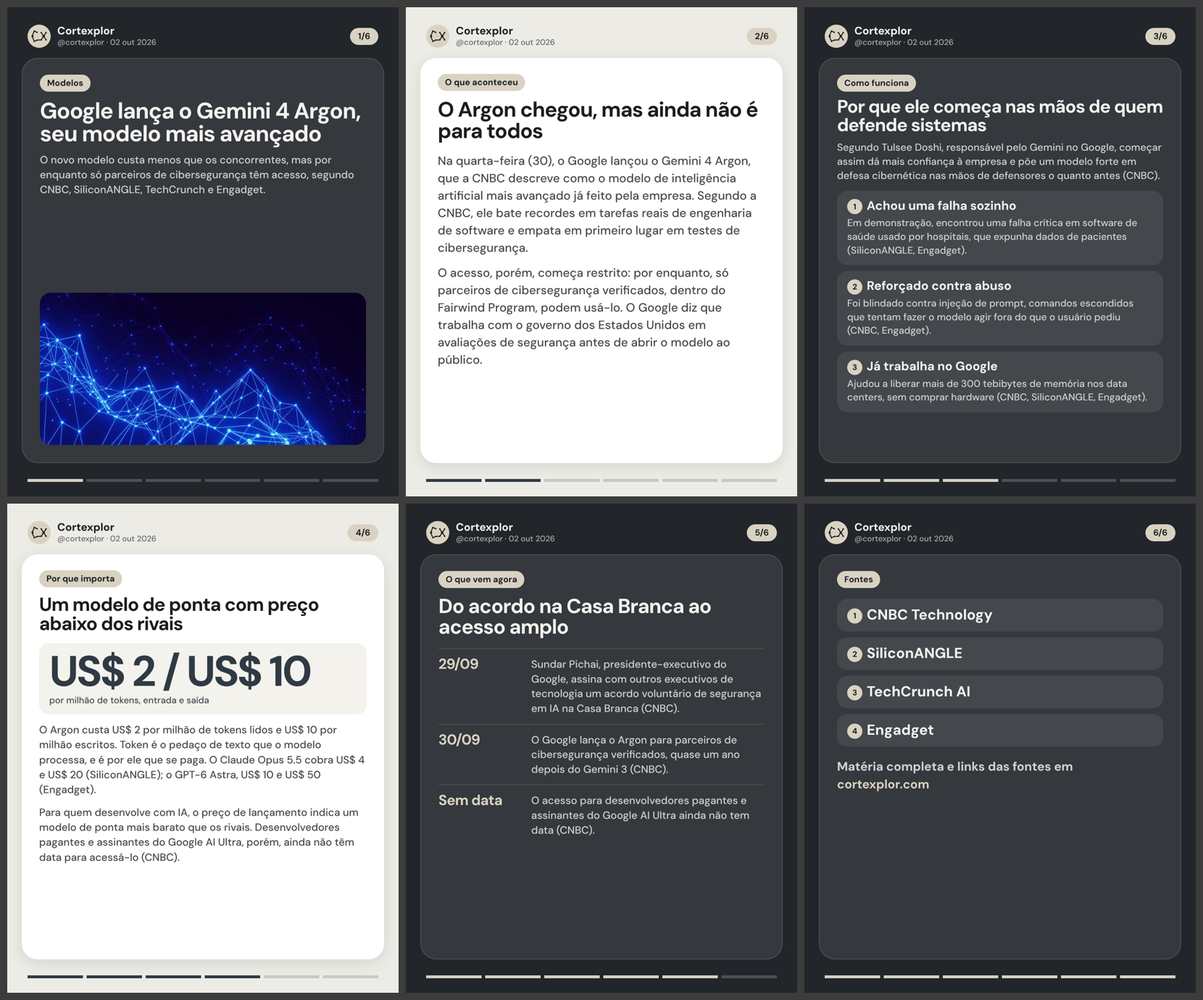
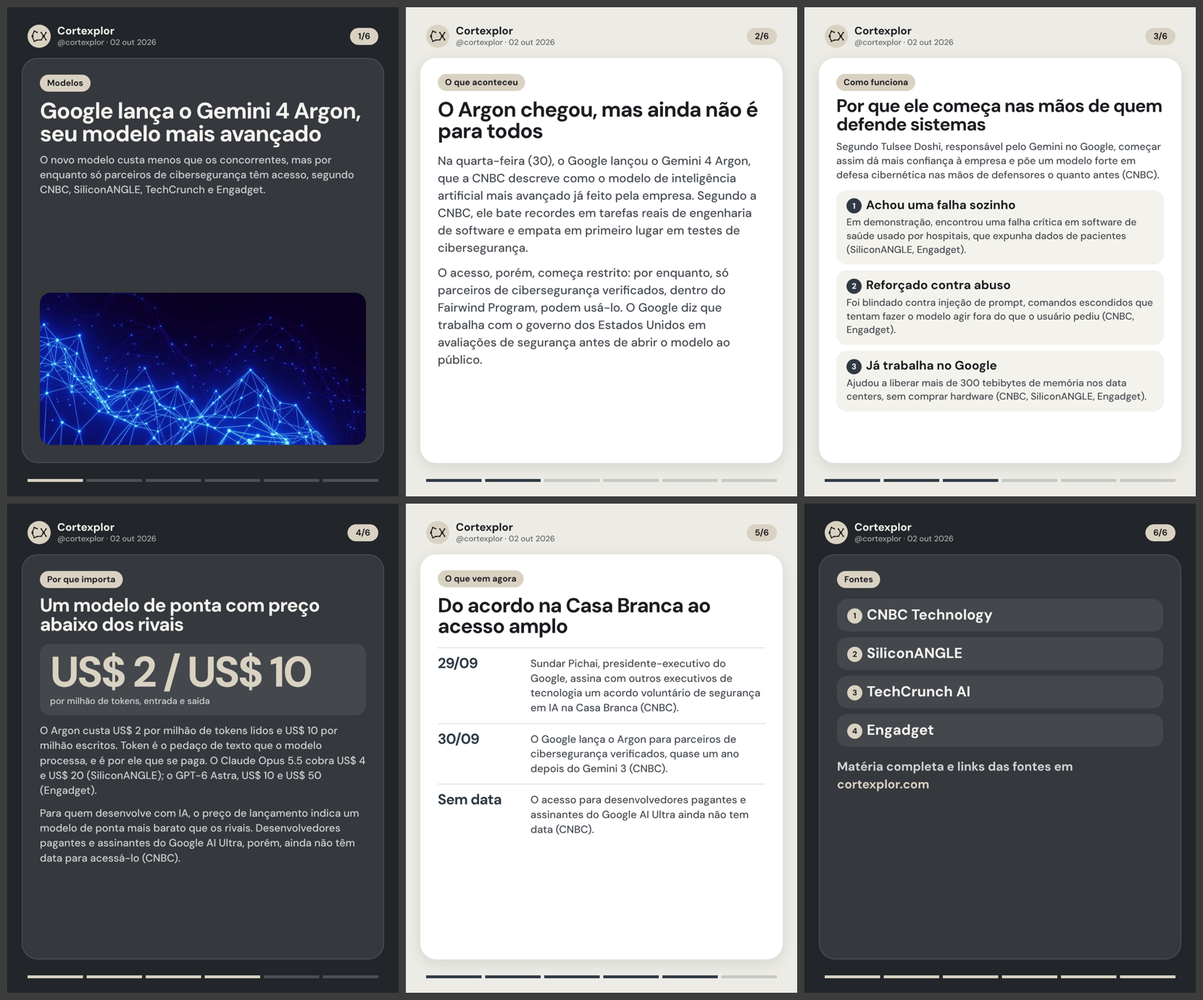
Remove estilo poster; ficam 8 estilos
Claude-Session: https://claude.ai/code/session_0158HN6BTWsPGuibWtbN19oZ

diff --git a/social/lab/_html/..-out-google-lanca-gemini-4-argon-ciberseguranca-cartao-03.html b/social/lab/_html/..-out-google-lanca-gemini-4-argon-ciberseguranca-cartao-03.html
@@ -33,8 +33,8 @@ svg.ic{display:inline-block;vertical-align:middle;flex:none}
 .T .tm{display:grid;grid-template-columns:240px 1fr;gap:16px;padding:22px 0;border-top:2px solid rgba(127,140,132,.3)}
 .T .tm b{font:700 40px/1 'DM Sans';letter-spacing:-.03em;color:var(--ac)}
 .T .tm p{font-size:29px;line-height:1.4;color:var(--soft);font-weight:500}
-</style></head><body><div class='slide T dk'><div class='hd'><div class='av'><img src='file:///home/claude/cortexplor/assets/logo/cortexplor-icon-black.svg'></div><div class='nm'>Cortexplor<span>@cortexplor · 02 out 2026</span></div><div class='pill' style=''>3/6</div></div><div class='card'>
+</style></head><body><div class='slide T lt'><div class='hd'><div class='av'><img src='file:///home/claude/cortexplor/assets/logo/cortexplor-icon-black.svg'></div><div class='nm'>Cortexplor<span>@cortexplor · 02 out 2026</span></div><div class='pill' style=''>3/6</div></div><div class='card'>
 <div class='chip'>Como funciona</div>
 <div class='h' style='font-size:50px;margin-top:16px'>Por que ele começa nas mãos de quem defende sistemas</div>
 <div class='bd' style='font-size:28px;line-height:1.4;margin-top:16px'>Segundo Tulsee Doshi, responsável pelo Gemini no Google, começar assim dá mais confiança à empresa e põe um modelo forte em defesa cibernética nas mãos de defensores o quanto antes (CNBC).</div>
-<div style='margin-top:22px'><div class='sub'><h4><span class='nb'>1</span>Achou uma falha sozinho</h4><p>Em demonstração, encontrou uma falha crítica em software de saúde usado por hospitais, que expunha dados de pacientes (SiliconANGLE, Engadget).</p></div><div class='sub'><h4><span class='nb'>2</span>Reforçado contra abuso</h4><p>Foi blindado contra injeção de prompt, comandos escondidos que tentam fazer o modelo agir fora do que o usuário pediu (CNBC, Engadget).</p></div><div class='sub'><h4><span class='nb'>3</span>Já trabalha no Google</h4><p>Ajudou a liberar mais de 300 tebibytes de memória nos data centers, sem comprar hardware (CNBC, SiliconANGLE, Engadget).</p></div></div></div><div class='abs' style='left:56px;right:56px;bottom:40px;display:flex;gap:10px'><i style='flex:1;height:8px;background:#D9D2C2'></i><i style='flex:1;height:8px;background:#D9D2C2'></i><i style='flex:1;height:8px;background:#D9D2C2'></i><i style='flex:1;height:8px;background:rgba(255,255,255,.2)'></i><i style='flex:1;height:8px;background:rgba(255,255,255,.2)'></i><i style='flex:1;height:8px;background:rgba(255,255,255,.2)'></i></div></div></body></html>
+<div style='margin-top:22px'><div class='sub'><h4><span class='nb'>1</span>Achou uma falha sozinho</h4><p>Em demonstração, encontrou uma falha crítica em software de saúde usado por hospitais, que expunha dados de pacientes (SiliconANGLE, Engadget).</p></div><div class='sub'><h4><span class='nb'>2</span>Reforçado contra abuso</h4><p>Foi blindado contra injeção de prompt, comandos escondidos que tentam fazer o modelo agir fora do que o usuário pediu (CNBC, Engadget).</p></div><div class='sub'><h4><span class='nb'>3</span>Já trabalha no Google</h4><p>Ajudou a liberar mais de 300 tebibytes de memória nos data centers, sem comprar hardware (CNBC, SiliconANGLE, Engadget).</p></div></div></div><div class='abs' style='left:56px;right:56px;bottom:40px;display:flex;gap:10px'><i style='flex:1;height:8px;background:#2F3A44'></i><i style='flex:1;height:8px;background:#2F3A44'></i><i style='flex:1;height:8px;background:#2F3A44'></i><i style='flex:1;height:8px;background:rgba(34,37,42,.18)'></i><i style='flex:1;height:8px;background:rgba(34,37,42,.18)'></i><i style='flex:1;height:8px;background:rgba(34,37,42,.18)'></i></div></div></body></html>

diff --git a/social/lab/_html/..-out-openai-lanca-dots-agentes-permanentes-chatgpt-cartao-03.html b/social/lab/_html/..-out-openai-lanca-dots-agentes-permanentes-chatgpt-cartao-03.html
@@ -33,8 +33,8 @@ svg.ic{display:inline-block;vertical-align:middle;flex:none}
 .T .tm{display:grid;grid-template-columns:240px 1fr;gap:16px;padding:22px 0;border-top:2px solid rgba(127,140,132,.3)}
 .T .tm b{font:700 40px/1 'DM Sans';letter-spacing:-.03em;color:var(--ac)}
 .T .tm p{font-size:29px;line-height:1.4;color:var(--soft);font-weight:500}
-</style></head><body><div class='slide T lt'><div class='hd'><div class='av'><img src='file:///home/claude/cortexplor/assets/logo/cortexplor-icon-black.svg'></div><div class='nm'>Cortexplor<span>@cortexplor · 02 out 2026</span></div><div class='pill' style=''>3/6</div></div><div class='card'>
+</style></head><body><div class='slide T dk'><div class='hd'><div class='av'><img src='file:///home/claude/cortexplor/assets/logo/cortexplor-icon-black.svg'></div><div class='nm'>Cortexplor<span>@cortexplor · 02 out 2026</span></div><div class='pill' style=''>3/6</div></div><div class='card'>
 <div class='chip'>Como funciona</div>
 <div class='h' style='font-size:50px;margin-top:16px'>Um agente que age sozinho, mas pede licença</div>
 <div class='bd' style='font-size:28px;line-height:1.4;margin-top:16px'>Fora de uma tarefa específica, o agente pode procurar formas de ajudar por conta própria, mas só com acesso de leitura aos apps conectados, sem enviar mensagens nem alterar dados (Wired).</div>
-<div style='margin-top:22px'><div class='sub'><h4><span class='nb'>1</span>Aviso da agenda</h4><p>Em demonstração da OpenAI, o Dot viu na agenda que o usuário trabalharia até o jantar e sugeriu duas opções de comida com preço (Wired).</p></div><div class='sub'><h4><span class='nb'>2</span>Fatura esquecida</h4><p>O agente notou que o usuário esqueceu de cobrar um cliente, preparou a fatura e esperou a aprovação para enviar (SiliconANGLE).</p></div><div class='sub'><h4><span class='nb'>3</span>Ações sensíveis</h4><p>Instalar programa ou trocar senha exige aprovação explícita, e um sistema de monitoramento pode pausar o agente (SiliconANGLE, Wired).</p></div></div></div><div class='abs' style='left:56px;right:56px;bottom:40px;display:flex;gap:10px'><i style='flex:1;height:8px;background:#2F3A44'></i><i style='flex:1;height:8px;background:#2F3A44'></i><i style='flex:1;height:8px;background:#2F3A44'></i><i style='flex:1;height:8px;background:rgba(34,37,42,.18)'></i><i style='flex:1;height:8px;background:rgba(34,37,42,.18)'></i><i style='flex:1;height:8px;background:rgba(34,37,42,.18)'></i></div></div></body></html>
+<div style='margin-top:22px'><div class='sub'><h4><span class='nb'>1</span>Aviso da agenda</h4><p>Em demonstração da OpenAI, o Dot viu na agenda que o usuário trabalharia até o jantar e sugeriu duas opções de comida com preço (Wired).</p></div><div class='sub'><h4><span class='nb'>2</span>Fatura esquecida</h4><p>O agente notou que o usuário esqueceu de cobrar um cliente, preparou a fatura e esperou a aprovação para enviar (SiliconANGLE).</p></div><div class='sub'><h4><span class='nb'>3</span>Ações sensíveis</h4><p>Instalar programa ou trocar senha exige aprovação explícita, e um sistema de monitoramento pode pausar o agente (SiliconANGLE, Wired).</p></div></div></div><div class='abs' style='left:56px;right:56px;bottom:40px;display:flex;gap:10px'><i style='flex:1;height:8px;background:#D9D2C2'></i><i style='flex:1;height:8px;background:#D9D2C2'></i><i style='flex:1;height:8px;background:#D9D2C2'></i><i style='flex:1;height:8px;background:rgba(255,255,255,.2)'></i><i style='flex:1;height:8px;background:rgba(255,255,255,.2)'></i><i style='flex:1;height:8px;background:rgba(255,255,255,.2)'></i></div></div></body></html>

diff --git a/social/lab/_html/..-out-google-lanca-gemini-4-argon-ciberseguranca-meiatinta-03.html b/social/lab/_html/..-out-google-lanca-gemini-4-argon-ciberseguranca-meiatinta-03.html
@@ -28,8 +28,8 @@ svg.ic{display:inline-block;vertical-align:middle;flex:none}
 .H .tm{display:grid;grid-template-columns:260px 1fr;gap:18px;padding:26px 0;border-top:2px solid var(--rule)}
 .H .tm b{font:800 44px/1 Archivo;letter-spacing:-.03em;color:var(--or)}
 .H .tm p{font-size:30px;line-height:1.4;font-weight:500;color:var(--soft)}
-</style></head><body><div class='slide H dk'><div class='top'><img src='file:///home/claude/cortexplor/assets/logo/cortexplor-wordmark-white.svg'><div class='pill' style=''>3/6</div></div>
+</style></head><body><div class='slide H lt'><div class='top'><img src='file:///home/claude/cortexplor/assets/logo/cortexplor-wordmark-black.svg'><div class='pill' style=''>3/6</div></div>
 <div class='abs sf' style='left:56px;top:150px'>Como funciona</div>
 <div class='abs h' style='left:56px;top:210px;width:968px;font-size:58px'>Por que ele começa nas mãos de quem defende sistemas</div>
 <div class='abs bd' style='left:56px;top:390px;width:968px;font-size:29px;line-height:1.4'>Segundo Tulsee Doshi, responsável pelo Gemini no Google, começar assim dá mais confiança à empresa e põe um modelo forte em defesa cibernética nas mãos de defensores o quanto antes (CNBC).</div>
-<div class='abs' style='left:56px;top:590px;width:968px'><div class='pt'><div class='n'>1</div><div><h4>Achou uma falha sozinho</h4><p>Em demonstração, encontrou uma falha crítica em software de saúde usado por hospitais, que expunha dados de pacientes (SiliconANGLE, Engadget).</p></div></div><div class='pt'><div class='n'>2</div><div><h4>Reforçado contra abuso</h4><p>Foi blindado contra injeção de prompt, comandos escondidos que tentam fazer o modelo agir fora do que o usuário pediu (CNBC, Engadget).</p></div></div><div class='pt'><div class='n'>3</div><div><h4>Já trabalha no Google</h4><p>Ajudou a liberar mais de 300 tebibytes de memória nos data centers, sem comprar hardware (CNBC, SiliconANGLE, Engadget).</p></div></div></div><div class='abs' style='left:56px;right:56px;bottom:48px;display:flex;gap:10px'><i style='flex:1;height:8px;background:#ECE6D8'></i><i style='flex:1;height:8px;background:#ECE6D8'></i><i style='flex:1;height:8px;background:#ECE6D8'></i><i style='flex:1;height:8px;background:rgba(236,230,216,.22)'></i><i style='flex:1;height:8px;background:rgba(236,230,216,.22)'></i><i style='flex:1;height:8px;background:rgba(236,230,216,.22)'></i></div></div></body></html>
+<div class='abs' style='left:56px;top:590px;width:968px'><div class='pt'><div class='n'>1</div><div><h4>Achou uma falha sozinho</h4><p>Em demonstração, encontrou uma falha crítica em software de saúde usado por hospitais, que expunha dados de pacientes (SiliconANGLE, Engadget).</p></div></div><div class='pt'><div class='n'>2</div><div><h4>Reforçado contra abuso</h4><p>Foi blindado contra injeção de prompt, comandos escondidos que tentam fazer o modelo agir fora do que o usuário pediu (CNBC, Engadget).</p></div></div><div class='pt'><div class='n'>3</div><div><h4>Já trabalha no Google</h4><p>Ajudou a liberar mais de 300 tebibytes de memória nos data centers, sem comprar hardware (CNBC, SiliconANGLE, Engadget).</p></div></div></div><div class='abs' style='left:56px;right:56px;bottom:48px;display:flex;gap:10px'><i style='flex:1;height:8px;background:#121212'></i><i style='flex:1;height:8px;background:#121212'></i><i style='flex:1;height:8px;background:#121212'></i><i style='flex:1;height:8px;background:rgba(18,18,18,.16)'></i><i style='flex:1;height:8px;background:rgba(18,18,18,.16)'></i><i style='flex:1;height:8px;background:rgba(18,18,18,.16)'></i></div></div></body></html>

diff --git a/social/lab/_html/..-out-openai-lanca-dots-agentes-permanentes-chatgpt-meiatinta-03.html b/social/lab/_html/..-out-openai-lanca-dots-agentes-permanentes-chatgpt-meiatinta-03.html
@@ -28,8 +28,8 @@ svg.ic{display:inline-block;vertical-align:middle;flex:none}
 .H .tm{display:grid;grid-template-columns:260px 1fr;gap:18px;padding:26px 0;border-top:2px solid var(--rule)}
 .H .tm b{font:800 44px/1 Archivo;letter-spacing:-.03em;color:var(--or)}
 .H .tm p{font-size:30px;line-height:1.4;font-weight:500;color:var(--soft)}
-</style></head><body><div class='slide H lt'><div class='top'><img src='file:///home/claude/cortexplor/assets/logo/cortexplor-wordmark-black.svg'><div class='pill' style=''>3/6</div></div>
+</style></head><body><div class='slide H dk'><div class='top'><img src='file:///home/claude/cortexplor/assets/logo/cortexplor-wordmark-white.svg'><div class='pill' style=''>3/6</div></div>
 <div class='abs sf' style='left:56px;top:150px'>Como funciona</div>
 <div class='abs h' style='left:56px;top:210px;width:968px;font-size:58px'>Um agente que age sozinho, mas pede licença</div>
 <div class='abs bd' style='left:56px;top:390px;width:968px;font-size:29px;line-height:1.4'>Fora de uma tarefa específica, o agente pode procurar formas de ajudar por conta própria, mas só com acesso de leitura aos apps conectados, sem enviar mensagens nem alterar dados (Wired).</div>
-<div class='abs' style='left:56px;top:590px;width:968px'><div class='pt'><div class='n'>1</div><div><h4>Aviso da agenda</h4><p>Em demonstração da OpenAI, o Dot viu na agenda que o usuário trabalharia até o jantar e sugeriu duas opções de comida com preço (Wired).</p></div></div><div class='pt'><div class='n'>2</div><div><h4>Fatura esquecida</h4><p>O agente notou que o usuário esqueceu de cobrar um cliente, preparou a fatura e esperou a aprovação para enviar (SiliconANGLE).</p></div></div><div class='pt'><div class='n'>3</div><div><h4>Ações sensíveis</h4><p>Instalar programa ou trocar senha exige aprovação explícita, e um sistema de monitoramento pode pausar o agente (SiliconANGLE, Wired).</p></div></div></div><div class='abs' style='left:56px;right:56px;bottom:48px;display:flex;gap:10px'><i style='flex:1;height:8px;background:#121212'></i><i style='flex:1;height:8px;background:#121212'></i><i style='flex:1;height:8px;background:#121212'></i><i style='flex:1;height:8px;background:rgba(18,18,18,.16)'></i><i style='flex:1;height:8px;background:rgba(18,18,18,.16)'></i><i style='flex:1;height:8px;background:rgba(18,18,18,.16)'></i></div></div></body></html>
+<div class='abs' style='left:56px;top:590px;width:968px'><div class='pt'><div class='n'>1</div><div><h4>Aviso da agenda</h4><p>Em demonstração da OpenAI, o Dot viu na agenda que o usuário trabalharia até o jantar e sugeriu duas opções de comida com preço (Wired).</p></div></div><div class='pt'><div class='n'>2</div><div><h4>Fatura esquecida</h4><p>O agente notou que o usuário esqueceu de cobrar um cliente, preparou a fatura e esperou a aprovação para enviar (SiliconANGLE).</p></div></div><div class='pt'><div class='n'>3</div><div><h4>Ações sensíveis</h4><p>Instalar programa ou trocar senha exige aprovação explícita, e um sistema de monitoramento pode pausar o agente (SiliconANGLE, Wired).</p></div></div></div><div class='abs' style='left:56px;right:56px;bottom:48px;display:flex;gap:10px'><i style='flex:1;height:8px;background:#ECE6D8'></i><i style='flex:1;height:8px;background:#ECE6D8'></i><i style='flex:1;height:8px;background:#ECE6D8'></i><i style='flex:1;height:8px;background:rgba(236,230,216,.22)'></i><i style='flex:1;height:8px;background:rgba(236,230,216,.22)'></i><i style='flex:1;height:8px;background:rgba(236,230,216,.22)'></i></div></div></body></html>

diff --git a/social/lab/_html/..-out-openai-lanca-dots-agentes-permanentes-chatgpt-meiatinta-02.html b/social/lab/_html/..-out-openai-lanca-dots-agentes-permanentes-chatgpt-meiatinta-02.html
@@ -28,8 +28,8 @@ svg.ic{display:inline-block;vertical-align:middle;flex:none}
 .H .tm{display:grid;grid-template-columns:260px 1fr;gap:18px;padding:26px 0;border-top:2px solid var(--rule)}
 .H .tm b{font:800 44px/1 Archivo;letter-spacing:-.03em;color:var(--or)}
 .H .tm p{font-size:30px;line-height:1.4;font-weight:500;color:var(--soft)}
-</style></head><body><div class='slide H lt'><div class='top'><img src='file:///home/claude/cortexplor/assets/logo/cortexplor-wordmark-black.svg'><div class='pill' style=''>2/6</div></div>
-<div class='abs' style='left:0;top:120px;width:1080px;height:400px;background:url(file:///home/claude/cortexplor/social/lab/_ht/openai-lanca-dots-agentes-permanentes-chatgpt_ht_band_l.png) center/cover'></div>
+</style></head><body><div class='slide H dk'><div class='top'><img src='file:///home/claude/cortexplor/assets/logo/cortexplor-wordmark-white.svg'><div class='pill' style=''>2/6</div></div>
+<div class='abs' style='left:0;top:120px;width:1080px;height:400px;background:url(file:///home/claude/cortexplor/social/lab/_ht/openai-lanca-dots-agentes-permanentes-chatgpt_ht_band_k.png) center/cover'></div>
 <div class='abs sf' style='left:56px;top:560px'>O que aconteceu</div>
 <div class='abs h' style='left:56px;top:620px;width:968px;font-size:56px'>A OpenAI pôs agentes que trabalham o tempo todo dentro do ChatGPT</div>
-<div class='abs bd' style='left:56px;top:830px;width:968px;font-size:29px;line-height:1.42'><p style='margin-bottom:16px'>Na terça-feira (29), durante o DevDay, em São Francisco, a OpenAI lançou os Dots: agentes de IA “sempre ativos” no ChatGPT, capazes de tocar tarefas e projetos sem receber um comando a cada etapa, segundo SiliconANGLE, Wired e CNBC.</p><p style='margin-bottom:16px'>Movidos pelo GPT-6 Astra, os agentes funcionam no computador, na web e no celular, e também respondem pelo Slack e pelo Microsoft Teams, mantendo o mesmo contexto entre os canais.</p></div><div class='abs' style='left:56px;right:56px;bottom:48px;display:flex;gap:10px'><i style='flex:1;height:8px;background:#121212'></i><i style='flex:1;height:8px;background:#121212'></i><i style='flex:1;height:8px;background:rgba(18,18,18,.16)'></i><i style='flex:1;height:8px;background:rgba(18,18,18,.16)'></i><i style='flex:1;height:8px;background:rgba(18,18,18,.16)'></i><i style='flex:1;height:8px;background:rgba(18,18,18,.16)'></i></div></div></body></html>
+<div class='abs bd' style='left:56px;top:830px;width:968px;font-size:29px;line-height:1.42'><p style='margin-bottom:16px'>Na terça-feira (29), durante o DevDay, em São Francisco, a OpenAI lançou os Dots: agentes de IA “sempre ativos” no ChatGPT, capazes de tocar tarefas e projetos sem receber um comando a cada etapa, segundo SiliconANGLE, Wired e CNBC.</p><p style='margin-bottom:16px'>Movidos pelo GPT-6 Astra, os agentes funcionam no computador, na web e no celular, e também respondem pelo Slack e pelo Microsoft Teams, mantendo o mesmo contexto entre os canais.</p></div><div class='abs' style='left:56px;right:56px;bottom:48px;display:flex;gap:10px'><i style='flex:1;height:8px;background:#ECE6D8'></i><i style='flex:1;height:8px;background:#ECE6D8'></i><i style='flex:1;height:8px;background:rgba(236,230,216,.22)'></i><i style='flex:1;height:8px;background:rgba(236,230,216,.22)'></i><i style='flex:1;height:8px;background:rgba(236,230,216,.22)'></i><i style='flex:1;height:8px;background:rgba(236,230,216,.22)'></i></div></div></body></html>

diff --git a/social/lab/_html/..-out-google-lanca-gemini-4-argon-ciberseguranca-cartao-04.html b/social/lab/_html/..-out-google-lanca-gemini-4-argon-ciberseguranca-cartao-04.html
@@ -33,8 +33,8 @@ svg.ic{display:inline-block;vertical-align:middle;flex:none}
 .T .tm{display:grid;grid-template-columns:240px 1fr;gap:16px;padding:22px 0;border-top:2px solid rgba(127,140,132,.3)}
 .T .tm b{font:700 40px/1 'DM Sans';letter-spacing:-.03em;color:var(--ac)}
 .T .tm p{font-size:29px;line-height:1.4;color:var(--soft);font-weight:500}
-</style></head><body><div class='slide T lt'><div class='hd'><div class='av'><img src='file:///home/claude/cortexplor/assets/logo/cortexplor-icon-black.svg'></div><div class='nm'>Cortexplor<span>@cortexplor · 02 out 2026</span></div><div class='pill' style=''>4/6</div></div><div class='card'>
+</style></head><body><div class='slide T dk'><div class='hd'><div class='av'><img src='file:///home/claude/cortexplor/assets/logo/cortexplor-icon-black.svg'></div><div class='nm'>Cortexplor<span>@cortexplor · 02 out 2026</span></div><div class='pill' style=''>4/6</div></div><div class='card'>
 <div class='chip'>Por que importa</div>
 <div class='h' style='font-size:52px'>Um modelo de ponta com preço abaixo dos rivais</div>
 <div class='sub' style='margin-top:26px;margin-bottom:22px'><div class='big' style='font-size:118px'>US$ 2 / US$ 10</div><p style='font-size:25px;margin-top:6px;color:var(--soft)'>por milhão de tokens, entrada e saída</p></div>
-<div class='bd' style='font-size:29px;line-height:1.42'><p style=''>O Argon custa US$ 2 por milhão de tokens lidos e US$ 10 por milhão escritos. Token é o pedaço de texto que o modelo processa, e é por ele que se paga. O Claude Opus 5.5 cobra US$ 4 e US$ 20 (SiliconANGLE); o GPT-6 Astra, US$ 10 e US$ 50 (Engadget).</p><p style=''>Para quem desenvolve com IA, o preço de lançamento indica um modelo de ponta mais barato que os rivais. Desenvolvedores pagantes e assinantes do Google AI Ultra, porém, ainda não têm data para acessá-lo (CNBC).</p></div></div><div class='abs' style='left:56px;right:56px;bottom:40px;display:flex;gap:10px'><i style='flex:1;height:8px;background:#2F3A44'></i><i style='flex:1;height:8px;background:#2F3A44'></i><i style='flex:1;height:8px;background:#2F3A44'></i><i style='flex:1;height:8px;background:#2F3A44'></i><i style='flex:1;height:8px;background:rgba(34,37,42,.18)'></i><i style='flex:1;height:8px;background:rgba(34,37,42,.18)'></i></div></div></body></html>
+<div class='bd' style='font-size:29px;line-height:1.42'><p style=''>O Argon custa US$ 2 por milhão de tokens lidos e US$ 10 por milhão escritos. Token é o pedaço de texto que o modelo processa, e é por ele que se paga. O Claude Opus 5.5 cobra US$ 4 e US$ 20 (SiliconANGLE); o GPT-6 Astra, US$ 10 e US$ 50 (Engadget).</p><p style=''>Para quem desenvolve com IA, o preço de lançamento indica um modelo de ponta mais barato que os rivais. Desenvolvedores pagantes e assinantes do Google AI Ultra, porém, ainda não têm data para acessá-lo (CNBC).</p></div></div><div class='abs' style='left:56px;right:56px;bottom:40px;display:flex;gap:10px'><i style='flex:1;height:8px;background:#D9D2C2'></i><i style='flex:1;height:8px;background:#D9D2C2'></i><i style='flex:1;height:8px;background:#D9D2C2'></i><i style='flex:1;height:8px;background:#D9D2C2'></i><i style='flex:1;height:8px;background:rgba(255,255,255,.2)'></i><i style='flex:1;height:8px;background:rgba(255,255,255,.2)'></i></div></div></body></html>

diff --git a/social/lab/_html/..-out-openai-lanca-dots-agentes-permanentes-chatgpt-cartao-06.html b/social/lab/_html/..-out-openai-lanca-dots-agentes-permanentes-chatgpt-cartao-06.html
@@ -33,7 +33,7 @@ svg.ic{display:inline-block;vertical-align:middle;flex:none}
 .T .tm{display:grid;grid-template-columns:240px 1fr;gap:16px;padding:22px 0;border-top:2px solid rgba(127,140,132,.3)}
 .T .tm b{font:700 40px/1 'DM Sans';letter-spacing:-.03em;color:var(--ac)}
 .T .tm p{font-size:29px;line-height:1.4;color:var(--soft);font-weight:500}
-</style></head><body><div class='slide T dk'><div class='hd'><div class='av'><img src='file:///home/claude/cortexplor/assets/logo/cortexplor-icon-black.svg'></div><div class='nm'>Cortexplor<span>@cortexplor · 02 out 2026</span></div><div class='pill' style=''>6/6</div></div><div class='card'>
+</style></head><body><div class='slide T lt'><div class='hd'><div class='av'><img src='file:///home/claude/cortexplor/assets/logo/cortexplor-icon-black.svg'></div><div class='nm'>Cortexplor<span>@cortexplor · 02 out 2026</span></div><div class='pill' style=''>6/6</div></div><div class='card'>
 <div class='chip'>Fontes</div>
 <div style='margin-top:30px'><div class='sub' style='font:700 40px/1.1 "DM Sans"'><span class='nb' style='display:inline-grid;place-items:center;width:42px;height:42px;border-radius:50%;background:var(--ac);color:#fff;font:700 22px 'DM Sans';margin-right:14px;vertical-align:middle'>1</span>SiliconANGLE</div><div class='sub' style='font:700 40px/1.1 "DM Sans"'><span class='nb' style='display:inline-grid;place-items:center;width:42px;height:42px;border-radius:50%;background:var(--ac);color:#fff;font:700 22px 'DM Sans';margin-right:14px;vertical-align:middle'>2</span>TechRadar</div><div class='sub' style='font:700 40px/1.1 "DM Sans"'><span class='nb' style='display:inline-grid;place-items:center;width:42px;height:42px;border-radius:50%;background:var(--ac);color:#fff;font:700 22px 'DM Sans';margin-right:14px;vertical-align:middle'>3</span>CNBC Technology</div><div class='sub' style='font:700 40px/1.1 "DM Sans"'><span class='nb' style='display:inline-grid;place-items:center;width:42px;height:42px;border-radius:50%;background:var(--ac);color:#fff;font:700 22px 'DM Sans';margin-right:14px;vertical-align:middle'>4</span>Wired AI</div></div>
-<div class='bd' style='margin-top:30px;font-weight:700'>Matéria completa e links das fontes em <span style='color:var(--ac)'>cortexplor.com</span></div></div><div class='abs' style='left:56px;right:56px;bottom:40px;display:flex;gap:10px'><i style='flex:1;height:8px;background:#D9D2C2'></i><i style='flex:1;height:8px;background:#D9D2C2'></i><i style='flex:1;height:8px;background:#D9D2C2'></i><i style='flex:1;height:8px;background:#D9D2C2'></i><i style='flex:1;height:8px;background:#D9D2C2'></i><i style='flex:1;height:8px;background:#D9D2C2'></i></div></div></body></html>
+<div class='bd' style='margin-top:30px;font-weight:700'>Matéria completa e links das fontes em <span style='color:var(--ac)'>cortexplor.com</span></div></div><div class='abs' style='left:56px;right:56px;bottom:40px;display:flex;gap:10px'><i style='flex:1;height:8px;background:#2F3A44'></i><i style='flex:1;height:8px;background:#2F3A44'></i><i style='flex:1;height:8px;background:#2F3A44'></i><i style='flex:1;height:8px;background:#2F3A44'></i><i style='flex:1;height:8px;background:#2F3A44'></i><i style='flex:1;height:8px;background:#2F3A44'></i></div></div></body></html>

diff --git a/social/lab/_html/..-out-google-lanca-gemini-4-argon-ciberseguranca-meiatinta-04.html b/social/lab/_html/..-out-google-lanca-gemini-4-argon-ciberseguranca-meiatinta-04.html
@@ -28,9 +28,9 @@ svg.ic{display:inline-block;vertical-align:middle;flex:none}
 .H .tm{display:grid;grid-template-columns:260px 1fr;gap:18px;padding:26px 0;border-top:2px solid var(--rule)}
 .H .tm b{font:800 44px/1 Archivo;letter-spacing:-.03em;color:var(--or)}
 .H .tm p{font-size:30px;line-height:1.4;font-weight:500;color:var(--soft)}
-</style></head><body><div class='slide H lt'><div class='top'><img src='file:///home/claude/cortexplor/assets/logo/cortexplor-wordmark-black.svg'><div class='pill' style=''>4/6</div></div>
+</style></head><body><div class='slide H dk'><div class='dots'></div><div class='top'><img src='file:///home/claude/cortexplor/assets/logo/cortexplor-wordmark-white.svg'><div class='pill' style=''>4/6</div></div>
 <div class='abs sf' style='left:56px;top:150px'>Por que importa</div>
 <div class='abs h' style='left:56px;top:210px;width:968px;font-size:62px'>Um modelo de ponta com preço abaixo dos rivais</div>
 <div class='abs' style='left:56px;top:450px;width:968px'><div class='big' style='font-size:112px'>US$ 2 / US$ 10</div>
 <div class='sf' style='font-size:36px;margin-top:8px'>por milhão de tokens, entrada e saída</div></div>
-<div class='abs bd' style='left:56px;top:700px;width:968px;font-size:30px'><p style=''>O Argon custa US$ 2 por milhão de tokens lidos e US$ 10 por milhão escritos. Token é o pedaço de texto que o modelo processa, e é por ele que se paga. O Claude Opus 5.5 cobra US$ 4 e US$ 20 (SiliconANGLE); o GPT-6 Astra, US$ 10 e US$ 50 (Engadget).</p><p style=''>Para quem desenvolve com IA, o preço de lançamento indica um modelo de ponta mais barato que os rivais. Desenvolvedores pagantes e assinantes do Google AI Ultra, porém, ainda não têm data para acessá-lo (CNBC).</p></div><div class='abs' style='left:56px;right:56px;bottom:48px;display:flex;gap:10px'><i style='flex:1;height:8px;background:#121212'></i><i style='flex:1;height:8px;background:#121212'></i><i style='flex:1;height:8px;background:#121212'></i><i style='flex:1;height:8px;background:#121212'></i><i style='flex:1;height:8px;background:rgba(18,18,18,.16)'></i><i style='flex:1;height:8px;background:rgba(18,18,18,.16)'></i></div></div></body></html>
+<div class='abs bd' style='left:56px;top:700px;width:968px;font-size:30px'><p style=''>O Argon custa US$ 2 por milhão de tokens lidos e US$ 10 por milhão escritos. Token é o pedaço de texto que o modelo processa, e é por ele que se paga. O Claude Opus 5.5 cobra US$ 4 e US$ 20 (SiliconANGLE); o GPT-6 Astra, US$ 10 e US$ 50 (Engadget).</p><p style=''>Para quem desenvolve com IA, o preço de lançamento indica um modelo de ponta mais barato que os rivais. Desenvolvedores pagantes e assinantes do Google AI Ultra, porém, ainda não têm data para acessá-lo (CNBC).</p></div><div class='abs' style='left:56px;right:56px;bottom:48px;display:flex;gap:10px'><i style='flex:1;height:8px;background:#ECE6D8'></i><i style='flex:1;height:8px;background:#ECE6D8'></i><i style='flex:1;height:8px;background:#ECE6D8'></i><i style='flex:1;height:8px;background:#ECE6D8'></i><i style='flex:1;height:8px;background:rgba(236,230,216,.22)'></i><i style='flex:1;height:8px;background:rgba(236,230,216,.22)'></i></div></div></body></html>

diff --git a/social/lab/_html/..-out-openai-lanca-dots-agentes-permanentes-chatgpt-meiatinta-04.html b/social/lab/_html/..-out-openai-lanca-dots-agentes-permanentes-chatgpt-meiatinta-04.html
@@ -28,9 +28,9 @@ svg.ic{display:inline-block;vertical-align:middle;flex:none}
 .H .tm{display:grid;grid-template-columns:260px 1fr;gap:18px;padding:26px 0;border-top:2px solid var(--rule)}
 .H .tm b{font:800 44px/1 Archivo;letter-spacing:-.03em;color:var(--or)}
 .H .tm p{font-size:30px;line-height:1.4;font-weight:500;color:var(--soft)}
-</style></head><body><div class='slide H dk'><div class='dots'></div><div class='top'><img src='file:///home/claude/cortexplor/assets/logo/cortexplor-wordmark-white.svg'><div class='pill' style=''>4/6</div></div>
+</style></head><body><div class='slide H lt'><div class='top'><img src='file:///home/claude/cortexplor/assets/logo/cortexplor-wordmark-black.svg'><div class='pill' style=''>4/6</div></div>
 <div class='abs sf' style='left:56px;top:150px'>Por que importa</div>
 <div class='abs h' style='left:56px;top:210px;width:968px;font-size:62px'>Quem paga a partir de US$ 100 já ganha um agente</div>
 <div class='abs' style='left:56px;top:450px;width:968px'><div class='big' style='font-size:112px'>US$ 100/mês</div>
 <div class='sf' style='font-size:36px;margin-top:8px'>plano ChatGPT Pro, onde os Dots começaram</div></div>
-<div class='abs bd' style='left:56px;top:700px;width:968px;font-size:30px'><p style=''>O acesso começou pelo plano ChatGPT Pro, de US$ 100 por mês, e pelo Business Premium. Cada assinatura inclui um agente sem custo extra, e o uso dos Dots não deve contar no limite mensal do plano no primeiro mês (SiliconANGLE).</p><p style=''>Assinantes Pro na União Europeia, na Suíça e no Reino Unido ficaram de fora por enquanto. A OpenAI ainda não divulgou o preço de agentes extras (SiliconANGLE).</p></div><div class='abs' style='left:56px;right:56px;bottom:48px;display:flex;gap:10px'><i style='flex:1;height:8px;background:#ECE6D8'></i><i style='flex:1;height:8px;background:#ECE6D8'></i><i style='flex:1;height:8px;background:#ECE6D8'></i><i style='flex:1;height:8px;background:#ECE6D8'></i><i style='flex:1;height:8px;background:rgba(236,230,216,.22)'></i><i style='flex:1;height:8px;background:rgba(236,230,216,.22)'></i></div></div></body></html>
+<div class='abs bd' style='left:56px;top:700px;width:968px;font-size:30px'><p style=''>O acesso começou pelo plano ChatGPT Pro, de US$ 100 por mês, e pelo Business Premium. Cada assinatura inclui um agente sem custo extra, e o uso dos Dots não deve contar no limite mensal do plano no primeiro mês (SiliconANGLE).</p><p style=''>Assinantes Pro na União Europeia, na Suíça e no Reino Unido ficaram de fora por enquanto. A OpenAI ainda não divulgou o preço de agentes extras (SiliconANGLE).</p></div><div class='abs' style='left:56px;right:56px;bottom:48px;display:flex;gap:10px'><i style='flex:1;height:8px;background:#121212'></i><i style='flex:1;height:8px;background:#121212'></i><i style='flex:1;height:8px;background:#121212'></i><i style='flex:1;height:8px;background:#121212'></i><i style='flex:1;height:8px;background:rgba(18,18,18,.16)'></i><i style='flex:1;height:8px;background:rgba(18,18,18,.16)'></i></div></div></body></html>

diff --git a/social/lab/_html/..-out-google-lanca-gemini-4-argon-ciberseguranca-cartao-05.html b/social/lab/_html/..-out-google-lanca-gemini-4-argon-ciberseguranca-cartao-05.html
@@ -33,7 +33,7 @@ svg.ic{display:inline-block;vertical-align:middle;flex:none}
 .T .tm{display:grid;grid-template-columns:240px 1fr;gap:16px;padding:22px 0;border-top:2px solid rgba(127,140,132,.3)}
 .T .tm b{font:700 40px/1 'DM Sans';letter-spacing:-.03em;color:var(--ac)}
 .T .tm p{font-size:29px;line-height:1.4;color:var(--soft);font-weight:500}
-</style></head><body><div class='slide T dk'><div class='hd'><div class='av'><img src='file:///home/claude/cortexplor/assets/logo/cortexplor-icon-black.svg'></div><div class='nm'>Cortexplor<span>@cortexplor · 02 out 2026</span></div><div class='pill' style=''>5/6</div></div><div class='card'>
+</style></head><body><div class='slide T lt'><div class='hd'><div class='av'><img src='file:///home/claude/cortexplor/assets/logo/cortexplor-icon-black.svg'></div><div class='nm'>Cortexplor<span>@cortexplor · 02 out 2026</span></div><div class='pill' style=''>5/6</div></div><div class='card'>
 <div class='chip'>O que vem agora</div>
 <div class='h' style='font-size:56px'>Do acordo na Casa Branca ao acesso amplo</div>
-<div style='margin-top:30px'><div class='tm'><b>29/09</b><p>Sundar Pichai, presidente-executivo do Google, assina com outros executivos de tecnologia um acordo voluntário de segurança em IA na Casa Branca (CNBC).</p></div><div class='tm'><b>30/09</b><p>O Google lança o Argon para parceiros de cibersegurança verificados, quase um ano depois do Gemini 3 (CNBC).</p></div><div class='tm'><b>Sem data</b><p>O acesso para desenvolvedores pagantes e assinantes do Google AI Ultra ainda não tem data (CNBC).</p></div></div></div><div class='abs' style='left:56px;right:56px;bottom:40px;display:flex;gap:10px'><i style='flex:1;height:8px;background:#D9D2C2'></i><i style='flex:1;height:8px;background:#D9D2C2'></i><i style='flex:1;height:8px;background:#D9D2C2'></i><i style='flex:1;height:8px;background:#D9D2C2'></i><i style='flex:1;height:8px;background:#D9D2C2'></i><i style='flex:1;height:8px;background:rgba(255,255,255,.2)'></i></div></div></body></html>
+<div style='margin-top:30px'><div class='tm'><b>29/09</b><p>Sundar Pichai, presidente-executivo do Google, assina com outros executivos de tecnologia um acordo voluntário de segurança em IA na Casa Branca (CNBC).</p></div><div class='tm'><b>30/09</b><p>O Google lança o Argon para parceiros de cibersegurança verificados, quase um ano depois do Gemini 3 (CNBC).</p></div><div class='tm'><b>Sem data</b><p>O acesso para desenvolvedores pagantes e assinantes do Google AI Ultra ainda não tem data (CNBC).</p></div></div></div><div class='abs' style='left:56px;right:56px;bottom:40px;display:flex;gap:10px'><i style='flex:1;height:8px;background:#2F3A44'></i><i style='flex:1;height:8px;background:#2F3A44'></i><i style='flex:1;height:8px;background:#2F3A44'></i><i style='flex:1;height:8px;background:#2F3A44'></i><i style='flex:1;height:8px;background:#2F3A44'></i><i style='flex:1;height:8px;background:rgba(34,37,42,.18)'></i></div></div></body></html>

diff --git a/social/lab/_html/..-out-google-lanca-gemini-4-argon-ciberseguranca-meiatinta-05.html b/social/lab/_html/..-out-google-lanca-gemini-4-argon-ciberseguranca-meiatinta-05.html
@@ -28,7 +28,7 @@ svg.ic{display:inline-block;vertical-align:middle;flex:none}
 .H .tm{display:grid;grid-template-columns:260px 1fr;gap:18px;padding:26px 0;border-top:2px solid var(--rule)}
 .H .tm b{font:800 44px/1 Archivo;letter-spacing:-.03em;color:var(--or)}
 .H .tm p{font-size:30px;line-height:1.4;font-weight:500;color:var(--soft)}
-</style></head><body><div class='slide H dk'><div class='top'><img src='file:///home/claude/cortexplor/assets/logo/cortexplor-wordmark-white.svg'><div class='pill' style=''>5/6</div></div>
+</style></head><body><div class='slide H lt'><div class='top'><img src='file:///home/claude/cortexplor/assets/logo/cortexplor-wordmark-black.svg'><div class='pill' style=''>5/6</div></div>
 <div class='abs sf' style='left:56px;top:150px'>O que vem agora</div>
 <div class='abs h' style='left:56px;top:210px;width:968px;font-size:66px'>Do acordo na Casa Branca ao acesso amplo</div>
-<div class='abs' style='left:56px;top:460px;width:968px;border-bottom:2px solid var(--rule)'><div class='tm'><b>29/09</b><p>Sundar Pichai, presidente-executivo do Google, assina com outros executivos de tecnologia um acordo voluntário de segurança em IA na Casa Branca (CNBC).</p></div><div class='tm'><b>30/09</b><p>O Google lança o Argon para parceiros de cibersegurança verificados, quase um ano depois do Gemini 3 (CNBC).</p></div><div class='tm'><b>Sem data</b><p>O acesso para desenvolvedores pagantes e assinantes do Google AI Ultra ainda não tem data (CNBC).</p></div></div><div class='abs' style='left:56px;right:56px;bottom:48px;display:flex;gap:10px'><i style='flex:1;height:8px;background:#ECE6D8'></i><i style='flex:1;height:8px;background:#ECE6D8'></i><i style='flex:1;height:8px;background:#ECE6D8'></i><i style='flex:1;height:8px;background:#ECE6D8'></i><i style='flex:1;height:8px;background:#ECE6D8'></i><i style='flex:1;height:8px;background:rgba(236,230,216,.22)'></i></div></div></body></html>
+<div class='abs' style='left:56px;top:460px;width:968px;border-bottom:2px solid var(--rule)'><div class='tm'><b>29/09</b><p>Sundar Pichai, presidente-executivo do Google, assina com outros executivos de tecnologia um acordo voluntário de segurança em IA na Casa Branca (CNBC).</p></div><div class='tm'><b>30/09</b><p>O Google lança o Argon para parceiros de cibersegurança verificados, quase um ano depois do Gemini 3 (CNBC).</p></div><div class='tm'><b>Sem data</b><p>O acesso para desenvolvedores pagantes e assinantes do Google AI Ultra ainda não tem data (CNBC).</p></div></div><div class='abs' style='left:56px;right:56px;bottom:48px;display:flex;gap:10px'><i style='flex:1;height:8px;background:#121212'></i><i style='flex:1;height:8px;background:#121212'></i><i style='flex:1;height:8px;background:#121212'></i><i style='flex:1;height:8px;background:#121212'></i><i style='flex:1;height:8px;background:#121212'></i><i style='flex:1;height:8px;background:rgba(18,18,18,.16)'></i></div></div></body></html>

diff --git a/scripts/social/styles_b.py b/scripts/social/styles_b.py
@@ -1,4 +1,4 @@
-"""Estilos 5-10: jornal, poster, cobalto, meia-tinta, cartão, vidro."""
+"""Estilos extras: jornal, cobalto, meia-tinta, cartão."""
 from __future__ import annotations
 
 import carousel_lab as L
@@ -99,90 +99,6 @@ def v_jornal(c: Ctx, pat):
 <div class='abs' style='left:64px;top:340px;width:952px'>{srcs}</div>
 <div class='abs' style='left:64px;top:900px;width:952px;font:italic 400 48px/1.2 "Instrument Serif";color:var(--soft)'>{c.u['full']} <span style='color:var(--ac)'>cortexplor.com</span></div>
 <div class='abs' style='left:64px;top:1226px;font:500 19px Inter;letter-spacing:.14em;text-transform:uppercase;color:var(--mu)'>{c.credit}</div>"""))
-    return css, s
-
-
-# ============================================================================
-# 6. POSTER — Anton em caixa-alta, amarelo ácido
-# ============================================================================
-def v_poster(c: Ctx, pat):
-    d = c.d
-    css = """
-.P{font-family:'Archivo',sans-serif;--y:#D8D0BE;--k:#4A4C4F;--w:#F5F2EA;--r:#A8432A}
-.P.y{background:var(--y);color:var(--k);--ac:var(--k);--soft:#4A4C4F;--pb:#4A4C4F;--pt:var(--y)}
-.P.k{background:var(--k);color:#fff;--ac:var(--y);--soft:#D9D9D4;--pb:var(--y);--pt:#4A4C4F}
-.P.w{background:var(--w);color:var(--k);--ac:var(--r);--soft:#4A4C4F;--pb:#4A4C4F;--pt:var(--w)}
-.P .an{font-family:'Anton';text-transform:uppercase;font-weight:400;line-height:.96;letter-spacing:.002em}
-.P .top{position:absolute;left:56px;right:56px;top:44px;display:flex;justify-content:space-between;align-items:center}
-.P .top img{height:36px}
-.P .top .pill{position:static;background:var(--pb);color:var(--pt);font:800 24px 'Archivo';padding:8px 22px;border-radius:0}
-.P .lb{display:inline-block;background:var(--pb);color:var(--pt);font:800 26px 'Archivo';letter-spacing:.06em;text-transform:uppercase;padding:8px 18px}
-.P .bd{font-size:35px;line-height:1.42;font-weight:500;color:var(--soft)}
-.P .bd p{margin-bottom:22px}
-.P .blk{background:var(--pb);color:var(--pt);padding:22px 28px;margin-bottom:16px}
-.P .blk h4{font:400 40px/1 'Anton';text-transform:uppercase;letter-spacing:.01em;margin-bottom:8px;color:var(--pt)}
-.P .blk p{font-size:28px;line-height:1.38;font-weight:500}
-.P .sticker{position:absolute;background:#A8432A;color:#fff;font:800 26px/1.15 'Archivo';letter-spacing:.06em;text-transform:uppercase;padding:14px 22px;transform:rotate(-6deg);text-align:center}
-.P .row{display:grid;grid-template-columns:230px 1fr;gap:20px;padding:24px 0;border-top:6px solid var(--pb);align-items:start}
-.P .row b{font:400 62px/.95 'Anton';text-transform:uppercase}
-.P .row p{font-size:31px;line-height:1.38;font-weight:500;color:var(--soft)}
-"""
-    theme = lambda n, dark: "k" if dark else ("y" if n % 2 == 1 else "w")
-
-    def sl(n, dark, body):
-        th = theme(n, dark)
-        wm = WM_W if th == "k" else WM_B
-        return (
-            f"<div class='slide P {th}'><div class='top'><img src='{wm}'>{pill(n)}</div>"
-            f"{body}{_tick(n, th == 'k', left=56, right=56, bottom=48)}</div>"
-        )
-
-    s = []
-    nlen = len(d["headline"])
-    hs = 128 if nlen <= 50 else (112 if nlen <= 62 else 100)
-    s.append(sl(1, False, f"""
-<div class='sticker' style='right:56px;top:690px'>{d['stamp']}</div>
-<div class='abs lb' style='left:56px;top:140px'>{d['category']}</div>
-<div class='abs an' style='left:56px;top:210px;width:900px;font-size:{hs}px'>{d['headline']}</div>
-<div class='abs' style='left:56px;top:790px;width:968px;font-size:30px;line-height:1.38;font-weight:600'>{d['dek']}</div>
-<div class='abs' style='left:56px;top:950px;width:968px;height:300px;background:url({c.ph}) {c.pos}/cover;border:6px solid var(--k)'></div>"""))
-
-    x = d["s2"]
-    s.append(sl(2, pat[1], f"""
-<div class='abs lb' style='left:56px;top:140px'>{x['label']}</div>
-<div class='abs an' style='left:56px;top:210px;width:968px;font-size:84px'>{x['title']}</div>
-<div class='abs bd' style='left:56px;top:560px;width:968px'>{paras(x['body'])}</div>"""))
-
-    x = d["s3"]
-    blks = "".join(f"<div class='blk'><h4>{p['h']}</h4><p>{p['t']}</p></div>" for p in x["points"])
-    s.append(sl(3, pat[2], f"""
-<div class='abs lb' style='left:56px;top:140px'>{x['label']}</div>
-<div class='abs an' style='left:56px;top:204px;width:968px;font-size:66px'>{x['title']}</div>
-<div class='abs bd' style='left:56px;top:400px;width:968px;font-size:29px;line-height:1.4'>{x['body']}</div>
-<div class='abs' style='left:56px;top:600px;width:968px'>{blks}</div>"""))
-
-    x = d["s4"]
-    st = x["stat"]
-    s.append(sl(4, pat[3], f"""
-<div class='abs lb' style='left:56px;top:140px'>{x['label']}</div>
-<div class='abs an' style='left:56px;top:204px;width:968px;font-size:72px'>{x['title']}</div>
-<div class='abs' style='left:0;top:470px;width:1080px;background:var(--pb);color:var(--pt);padding:26px 56px'>
-<div class='an' style='font-size:128px;white-space:nowrap'>{st['big']}</div>
-<div style='font:700 24px Archivo;letter-spacing:.08em;text-transform:uppercase;margin-top:8px'>{st['cap']}</div></div>
-<div class='abs bd' style='left:56px;top:760px;width:968px;font-size:31px'>{paras(x['body'])}</div>"""))
-
-    x = d["s5"]
-    rows = "".join(f"<div class='row'><b>{e['h']}</b><p>{e['t']}</p></div>" for e in x["items"])
-    s.append(sl(5, pat[4], f"""
-<div class='abs lb' style='left:56px;top:140px'>{x['label']}</div>
-<div class='abs an' style='left:56px;top:204px;width:968px;font-size:78px'>{x['title']}</div>
-<div class='abs' style='left:56px;top:460px;width:968px;border-bottom:6px solid var(--pb)'>{rows}</div>"""))
-
-    fs = c.fs(110, 80)
-    s.append(sl(6, pat[5], f"""
-<div class='abs lb' style='left:56px;top:140px'>{c.u['sources']}</div>
-<div class='abs an' style='left:56px;top:220px;width:968px;font-size:{fs}px'>{'<br>'.join(c.src)}</div>
-<div class='abs bd' style='left:56px;top:900px;width:968px;font-weight:700'>{c.u['full']} <span style='background:var(--pb);color:var(--pt);padding:0 10px'>cortexplor.com</span></div>"""))
     return css, s
 
 
@@ -468,7 +384,6 @@ def v_cartao(c: Ctx, pat):
 
 STYLES_B = {
     "jornal": v_jornal,
-    "poster": v_poster,
     "cobalto": v_cobalto,
     "meiatinta": v_meiatinta,
     "cartao": v_cartao,
